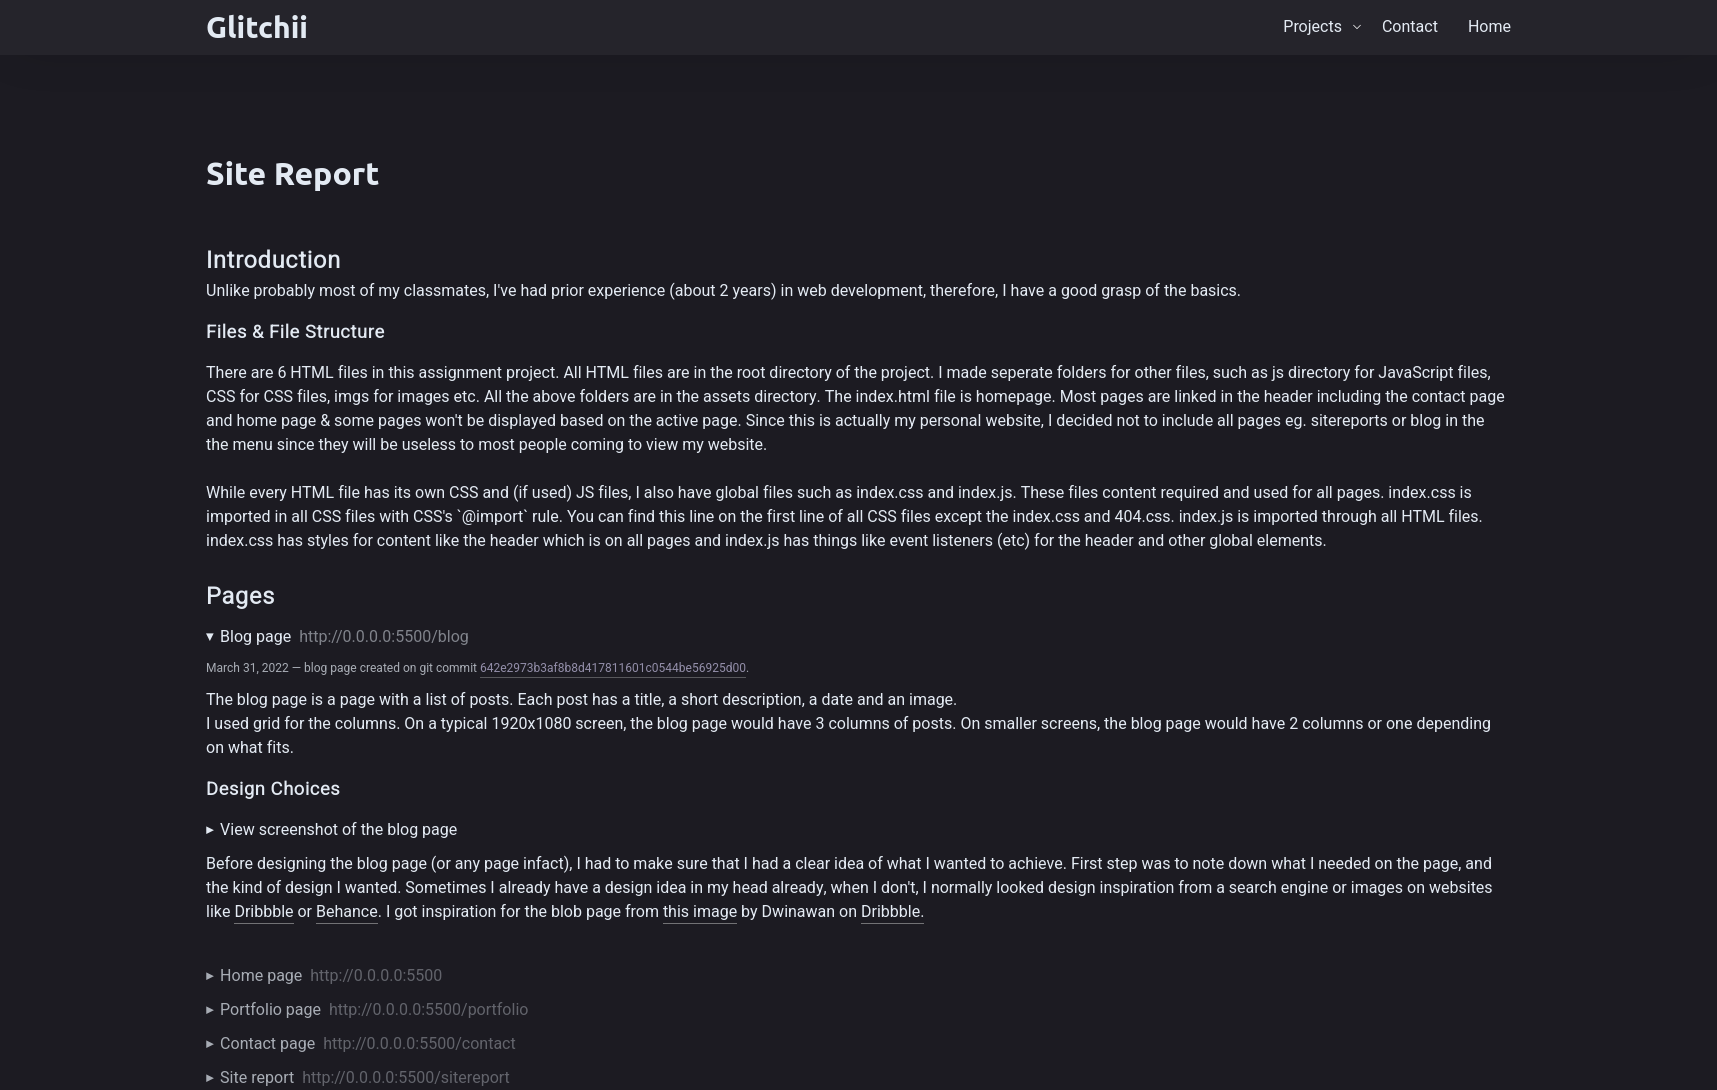
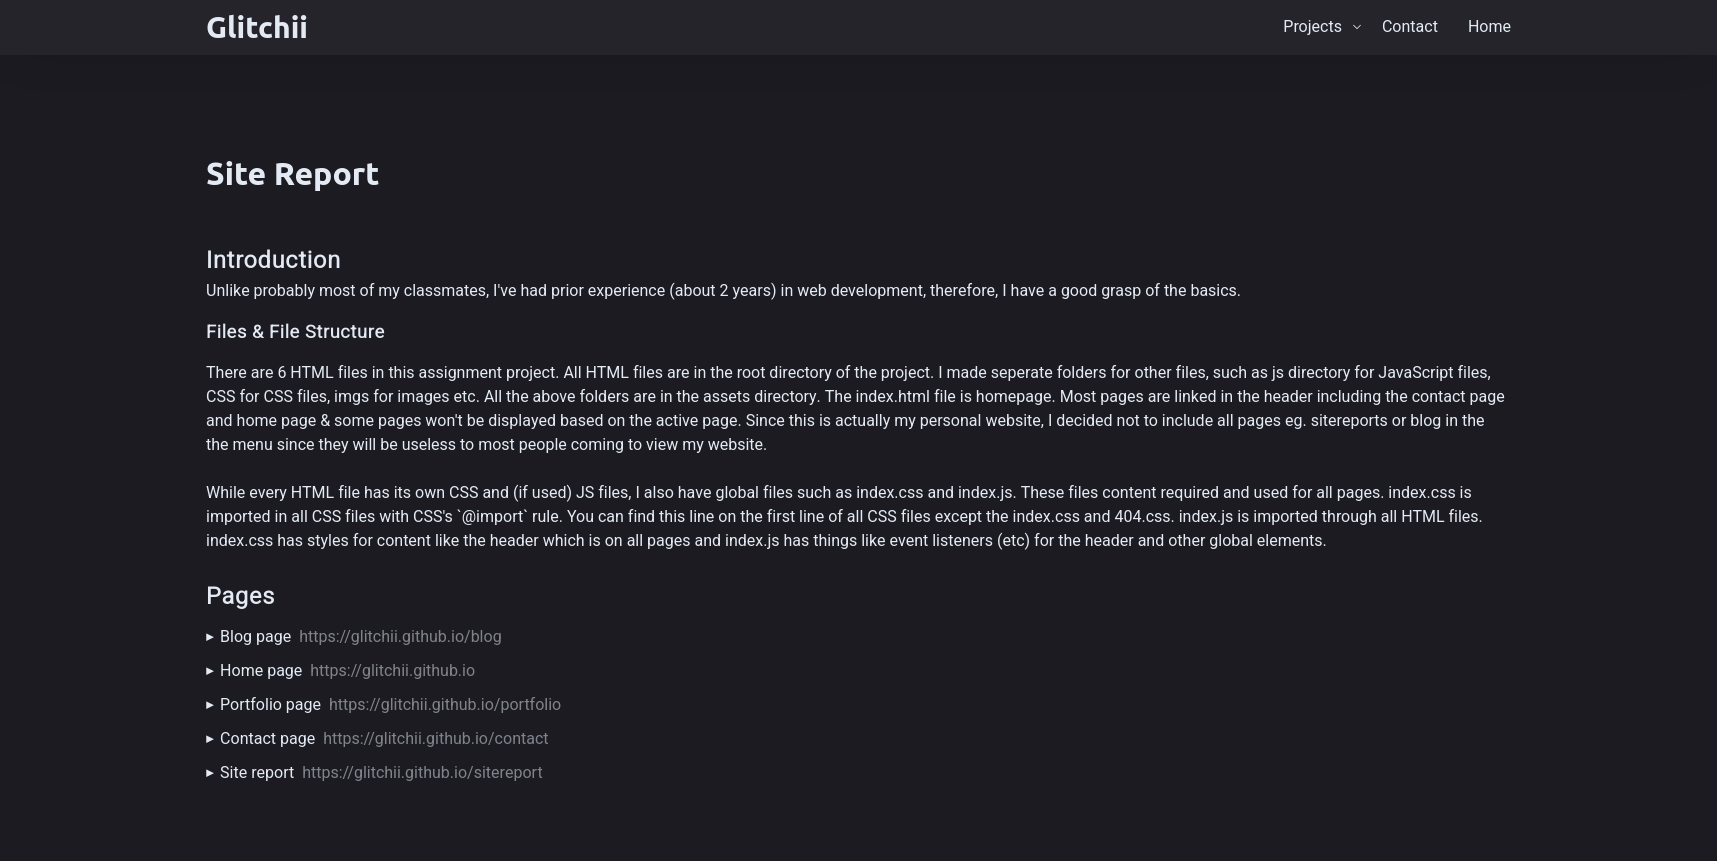
Close main details by default & update sitereport preview image to remove localhost

diff --git a/sitereport.html b/sitereport.html
@@ -62,7 +62,7 @@
                 All the above folders are in the assets directory.
                 The index.html file is homepage. Most pages are linked in the header including the contact page and home page &
                 some pages won't be displayed based on the active page. Since this is actually my personal website, I decided
-                not to include all pages eg. sitereports or blog in the the menu since they will be useless to most people coming
+                not to include all pages eg. sitereport or blog in the the menu since they will be useless to most people coming
                 to view my website.
                 <br>
                 <br>
@@ -214,7 +214,7 @@
                     Just like others pages, the contact page also includes the header, and has the same colour scheme as the other pages.
                 </p>
             </details>
-            <details class="page" data-path="/sitereport" open>
+            <details class="page" data-path="/sitereport">
                 <summary>Site report <a href target="_blank"></a></summary>
                 
                 <div class="date">
@@ -260,7 +260,7 @@
                     <li>Toggle the harmburger menu.</li>
                     <li>Toggle & animate the 'contact' section in the homepage when 'contact' is clicked.</li>
                     <li>Display the current URL in the 404 page</li>
-                    <li>Display the URL alongside the domain in the main detail tags on the sitereports page</li>
+                    <li>Display the URL alongside the domain in the main detail tags on the sitereport page</li>
                     <li>Alter the message to add author and email (if provided) at the end on an email when submited in the contact form</li>
                 </ul>
 
